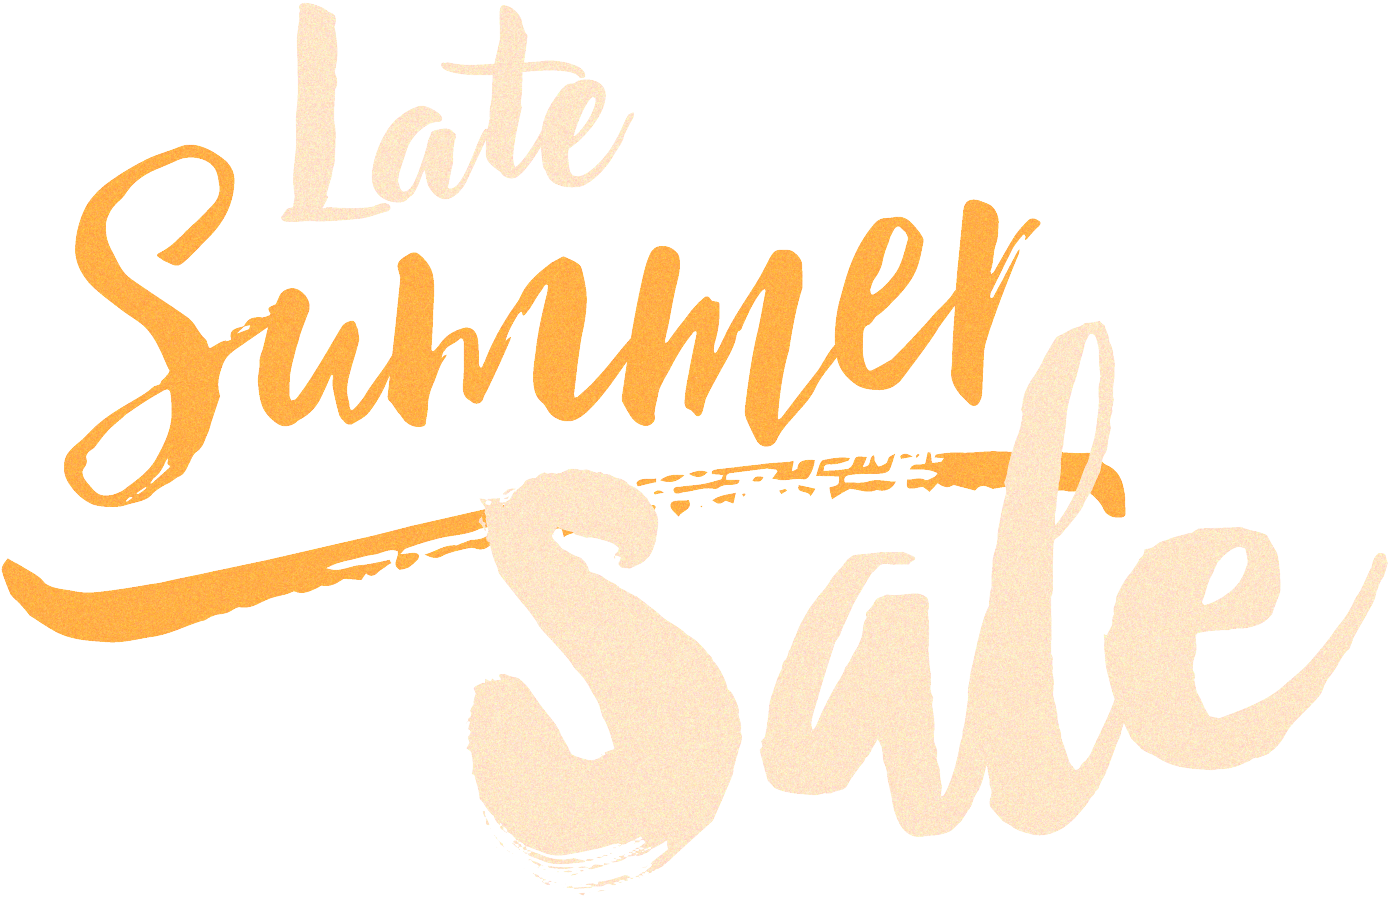
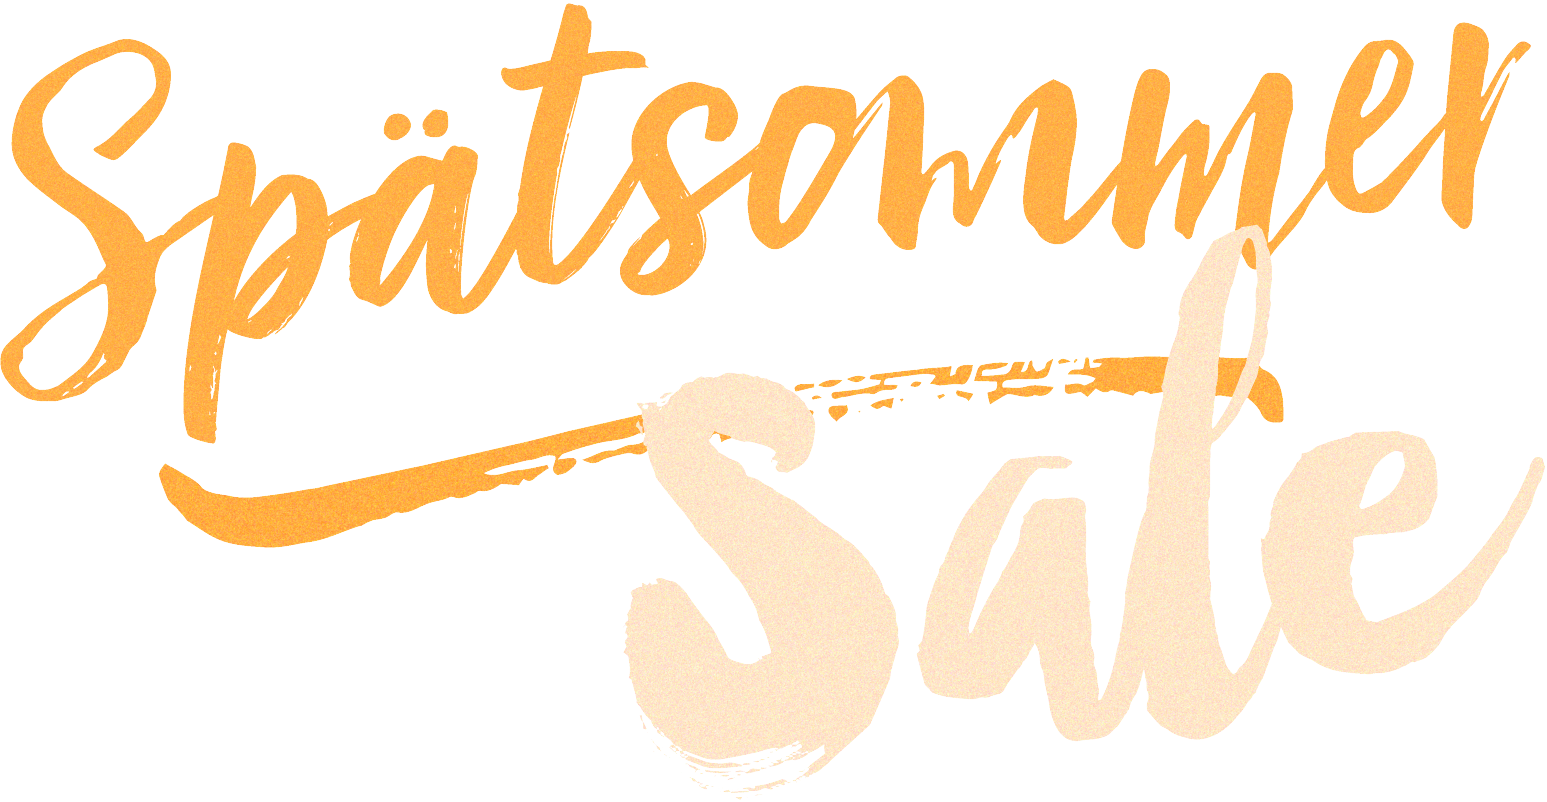
DE content

diff --git a/gulpfile.js b/gulpfile.js
@@ -26,7 +26,7 @@ const cleanAssets = () => del(["./_site/_assets/**/*"]);
 
 // start browserSync local server - show under site subdirectory
 const browserSyncServe = () => {
-  const baseurl = "/uk/2024/late-summer-sale";
+  const baseurl = "/de/2024/sommer-sale";
   browserSync.init({
     baseDir: "_site/",
     ui: false,

diff --git a/_pages/new-deals.md b/_pages/new-deals.md
@@ -1,28 +1,29 @@
 ---
 layout: standard
 id: new-deals
-title: New Deals
-permalink: /new-deals/
+title: Neue Deals
+permalink: /neue-deals/
 nav: true
 nav-order: 2
-intro: We've just launched loads more deals into our sale to give you even more options for your next escape. With unbelievable discounts, now's the time to book your next holiday at a bargain price.
+intro: >
+  Sie haben richtig gelesen: Ab sofort finden Sie noch mehr Top-Deals in unserem Spätsommer-Sale. Buchen Sie Ihr nächstes Abenteuer jetzt zu Tiefstpreisen!
 header-content: >
-  <h1 class="mx-auto" style="max-width: 28rem;">
-    <img src="{{site.img}}/content/{{page.id}}/title.png" alt="{{site.title}} - New Deals Added">
+  <h1 class="mx-auto" style="max-width: 32rem;">
+    <img src="{{site.img}}/content/{{page.id}}/title.png" alt="{{site.title}} - Neue Angebote">
   </h1>
 ---
 
 <div class="page-padding text-textBlack content-spacing bg-white">
   <div class="mx-auto max-w-screen-lg py-20 text-center">
-    <h2 class="h5">New deals added to the Late-Summer Sale!</h2>
+    <h2 class="h5">Neue Angebote im Spätsommer-Sale</h2>
     <p class="text-lg">{{page.intro}}</p>
-    {% include countdown.html message="The Late-Summer Sale ends in:" class="text-lg" %}
+    {% include countdown.html message="Der Spätsommer-Sale endet in:" class="text-lg" %}
   </div>
 </div>
 
 <div class="page-padding content-spacing">
   <div class="mx-auto max-w-screen-3xl pb-24">
-    {% include component/se-offers.html tag="zz_UK_summersaleNew" %}
+    {% include component/se-offers.html tag="zz_DE_summersaleNew" %}
     <div class="text-center pt-12">
       <a href="{{site.baseurl}}" class="btn btn--lg">{{locale.general.back-to-deals}}</a>
     </div>

diff --git a/_pages/index.md b/_pages/index.md
@@ -1,7 +1,7 @@
 ---
 layout: standard
 id: all
-title: All Sale Deals
+title: Alle Angebote im Sale
 nav: true
 nav-order: 1
 header-content: >
@@ -12,16 +12,16 @@ header-content: >
 
 <div class="page-padding text-textBlack content-spacing bg-white">
   <div class="mx-auto max-w-screen-lg py-20 text-center">
-    <h2 class="h4">Bigger savings in the Late-Summer Sale!</h2>
-    <p class="text-lg">Get the lowest prices on amazing deals and destinations around the world!</p>
+    <h2 class="h4">Noch mehr sparen im Spätsommer-Sale!</h2>
+    <p class="text-lg">Entdecken Sie Top-Angebote zu Tiefstpreisen!</p>
     <p class="text-lg">{{site.description}}</p>
-    <p class="text-lg">Browse our dreamy collections to find a bargain escape you can't refuse! </p>
-    {% include countdown.html message="The Late-Summer Sale ends in:" class="text-lg" %}
+    <p class="text-lg">Lassen Sie sich von unseren Sale-Kollektionen inspirieren und entdecken Sie Ihren nächsten Traumurlaub.</p>
+    {% include countdown.html message="Der Spätsommer-Sale endet in:" class="text-lg" %}
   </div>
 </div>
 
 <div class="page-padding content-spacing">
   <div class="mx-auto max-w-screen-3xl pb-24">
-    {% include component/se-offers.html tag="zz_UK_summersale" %}
+    {% include component/se-offers.html tag="zz_DE_summersale" %}
   </div>
 </div>

diff --git a/_pages/deals/mediterranean-beach.md b/_pages/deals/mediterranean-beach.md
@@ -1,18 +1,17 @@
 ---
 layout: group-page
 id: mediterranean-beach
-title: Mediterranean beach
+title: Mittelmeer
 permalink: /mediterranean-beach/
 group-parent: deals
 group-order: 1
-group-nav-title: Med beach
 header-content: >
-  <div class="mx-auto max-w-screen-xl">
-    <h1 class="h--banner">Mediter&shy;ranean<br>beach</h1>
-  </div>
+  <h1 class="h--banner">
+    Mittel&shy;meer
+  </h1>
 intro:
-  - Get even bigger savings on popular Med beach stays!
-  - The Late-Summer Sale has arrived! Whether it's the Algarve, Croatian coast, Balearic or Greek islands, we've got the very best deals on magical Mediterranean beach holidays. Get ready to soak up some sun and relax on the sand, our Med beach deals are unmissable!
-intro-title: Dreamy Mediterranean beach escapes
-offer-tag: zz_UK_SummerMedbeach
+  - Sale-Angebote für Sonnenanbeter
+  - Buchen Sie traumhafte Auszeiten an wunderschönen Mittelmeer-Destinationen zu einmaligen Sparpreisen. Entspannte Stunden an mediterranen Traumstränden erwarten Sie... Wohin soll es gehen?
+intro-title: Strandurlaub am Mittelmeer
+offer-tag: zz_DE_SummerMedbeach
 ---

diff --git a/_pages/deals/close-to-home.md b/_pages/deals/close-to-home.md
@@ -1,13 +1,13 @@
 ---
 layout: group-page
 id: close-to-home
-title: UK stays
+title: Urlaub in der Nähe
 permalink: /close-to-home/
 group-parent: deals
 group-order: 3
 intro:
-  - The ultimate British summertime escape!
-  - Your next luxury break is closer than you think with our Late-Summer Sale on stunning UK staycations! Head to the calming Cornish coast, make your way to the Lake District for unparalleled natural beauty or book a relaxing break in The Cotswolds. North, South, East and West - our UK staycation deals are the best you'll find!
-intro-title: Relaxing UK Staycations
-offer-tag: zz_UK_SummerStaycation
+  - Traumurlaub ohne Reisestress
+  - Unvergessliche Urlaubsmomente müssen nicht immer weit entfernt sein. In unserem großen Spätsommer-Sale finden Sie fantastische Reiseziele in Ihrer Nähe, allesamt zu unwiderstehlichen Top-Preisen. Gönnen Sie sich jetzt Ihre wohlverdiente Auszeit und entspannen Sie schon bald ganz ohne Reisestress.
+intro-title: Urlaub in der Nähe
+offer-tag: zz_DE_SummerStaycation
 ---

diff --git a/_pages/deals/city-breaks.md b/_pages/deals/city-breaks.md
@@ -1,13 +1,17 @@
 ---
 layout: group-page
 id: city-breaks
-title: City breaks
+title: Städtetrips
 permalink: /city-breaks/
 group-parent: deals
 group-order: 4
+header-content: >
+  <h1 class="h--banner">
+    Städte&shy;trips
+  </h1>
 intro:
-  - Exciting city breaks for culture vultures!
-  - Sightseeing in Valletta, gourmet getaways in Copenhagen, soaking up some culture in Paris or Rome, you can do it all with our low prices on European city breaks! Escape to the city for less with our incredible Late-Summer Sale deals.
-intro-title: Thrilling city breaks
-offer-tag: zz_UK_SummerCity
+  - Sommer in der City? Na klar!
+  - Lust auf Kunst, Kultur und Kulinarik? In unserem großen Spätsommer-Sale finden Sie luxuriöse City-Hotels zu unwiderstehlichen Tiefstpreisen. Freuen Sie sich auf erlebnisreiche Tage in den aufregensten europäischen Metropolen mit dieser handverlesenen Auswahl an Angeboten mit riesigen Rabatten.
+intro-title: Aufregende Städtetrips
+offer-tag: zz_DE_SummerCity
 ---

diff --git a/_pages/deals/package-holidays.md b/_pages/deals/package-holidays.md
@@ -1,13 +1,15 @@
 ---
 layout: group-page
 id: package-holidays
-title: Package holidays
+title: Pauschalreisen
 permalink: /package-deals/
 group-parent: deals
 group-order: 5
+nav-title: Pauschalreisen
 intro:
-  - From wildlife encounters to all-inclusive laid-back luxury
-  - We've got something for everyone in our collection of Late-Summer Sale package holidays. Find wildlife experiences, multi-stop city tours and five-star resorts with flight options that are perfect for a break from the bustling nine-to-five.
-intro-title: Spell-binding package holidays
-offer-tag: zz_UK_SummerFar-flung
+  - Einfach und schnell zum Traumurlaub
+  - >
+    Ob unvergessliches Abenteuer oder erholsame All-inclusive-Auszeit: In unserem Spätsommer-Sale finden Sie fantastische Pauschalreisen für jeden Geschmack. Buchen Sie jetzt ganz entspannt und ohne Planungsstress.
+intro-title: Paradiesische Pauschalreisen
+offer-tag: zz_DE_SummerFar-flung
 ---

diff --git a/_pages/deals/spa.md b/_pages/deals/spa.md
@@ -1,13 +1,13 @@
 ---
 layout: group-page
 id: spa
-title: Spa deals
+title: Spa & Wellness
 permalink: /spa/
 group-parent: deals
 group-order: 2
 intro:
-  - Book a relaxing spa break at a seriously tempting price!
-  - Check out our Late-Summer Sale spa deals. From luxurious UK spa breaks to outstanding retreats abroad, these unbeatable low prices are too good to miss. Enjoy a spa break at the very best price and book now.
-intro-title: Spa & Wellness breaks
-offer-tag: zz_UK_SummerSpa
+  - Erholsame Deals zu entspannten Preisen
+  - Bringen Sie Körper und Geist in den Einklang mit den traumhaften Spa-Angeboten in unserem Spätsommer-Sale! Ob naturnah oder luxuriös – mit diesen Auszeiten ist innere Ruhe so gut wie garantiert. Gönnen Sie sich relaxte Wellnessmomente und buchen Sie jetzt Ihre wohlverdiente Pause.
+intro-title: Spa & Wellness
+offer-tag: zz_DE_SummerSpa
 ---

diff --git a/_pages/deals/index.md b/_pages/deals/index.md
@@ -1,12 +1,12 @@
 ---
 layout: group
 id: deals
-title: Sale collections
+title: Sale-Kollektionen
 group: true
 nav: true
 nav-order: 2
 header-content: >
-  <div class="mx-auto max-w-screen-xl">
-    <h1 class="h--banner">Sale<br>collect&shy;ions</h1>
-  </div>
+  <h1 class="h--banner">
+    Sale-<br>Kollek&shy;tionen
+  </h1>
 ---
